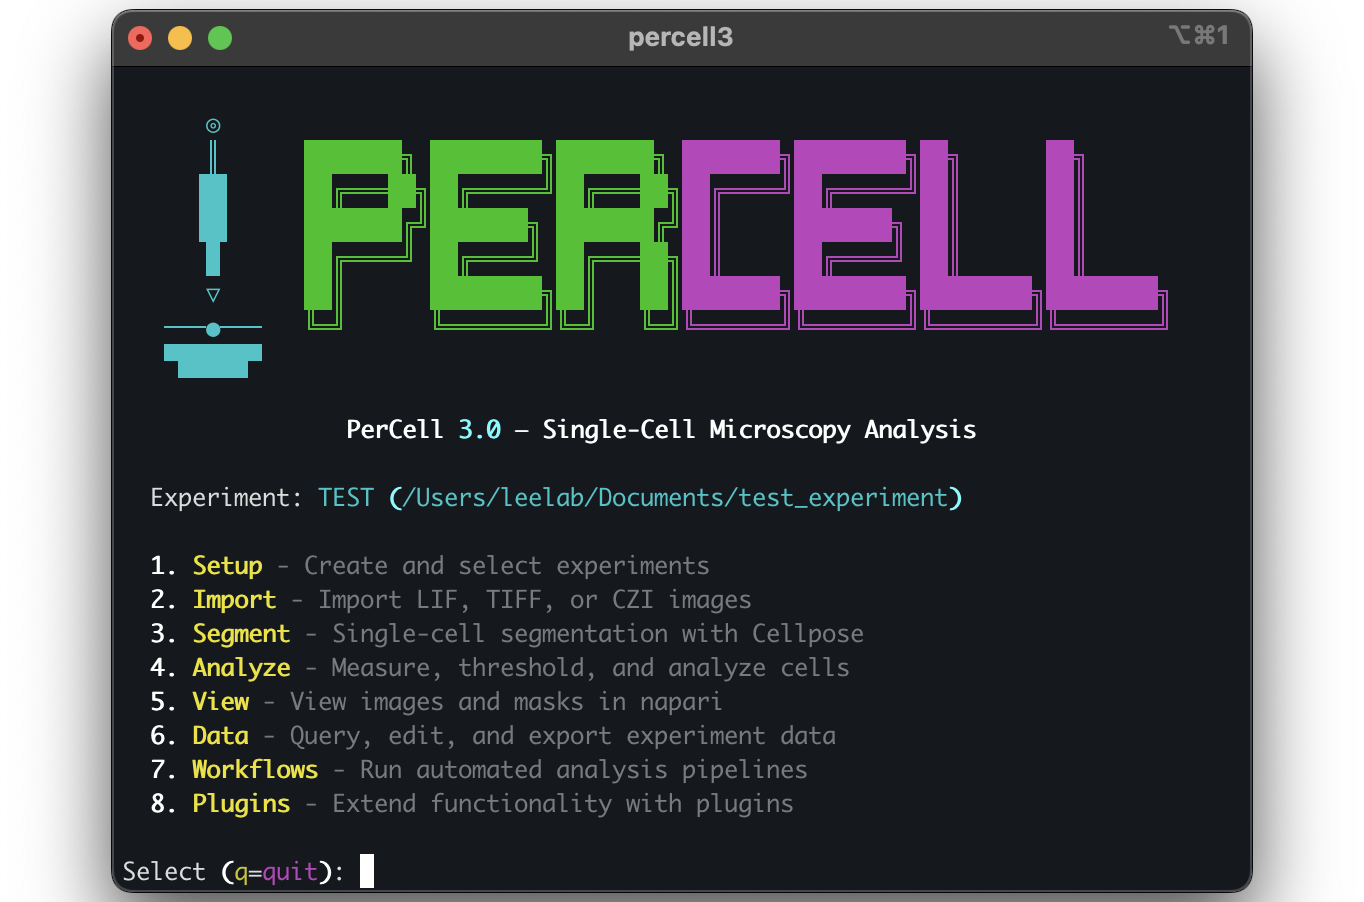
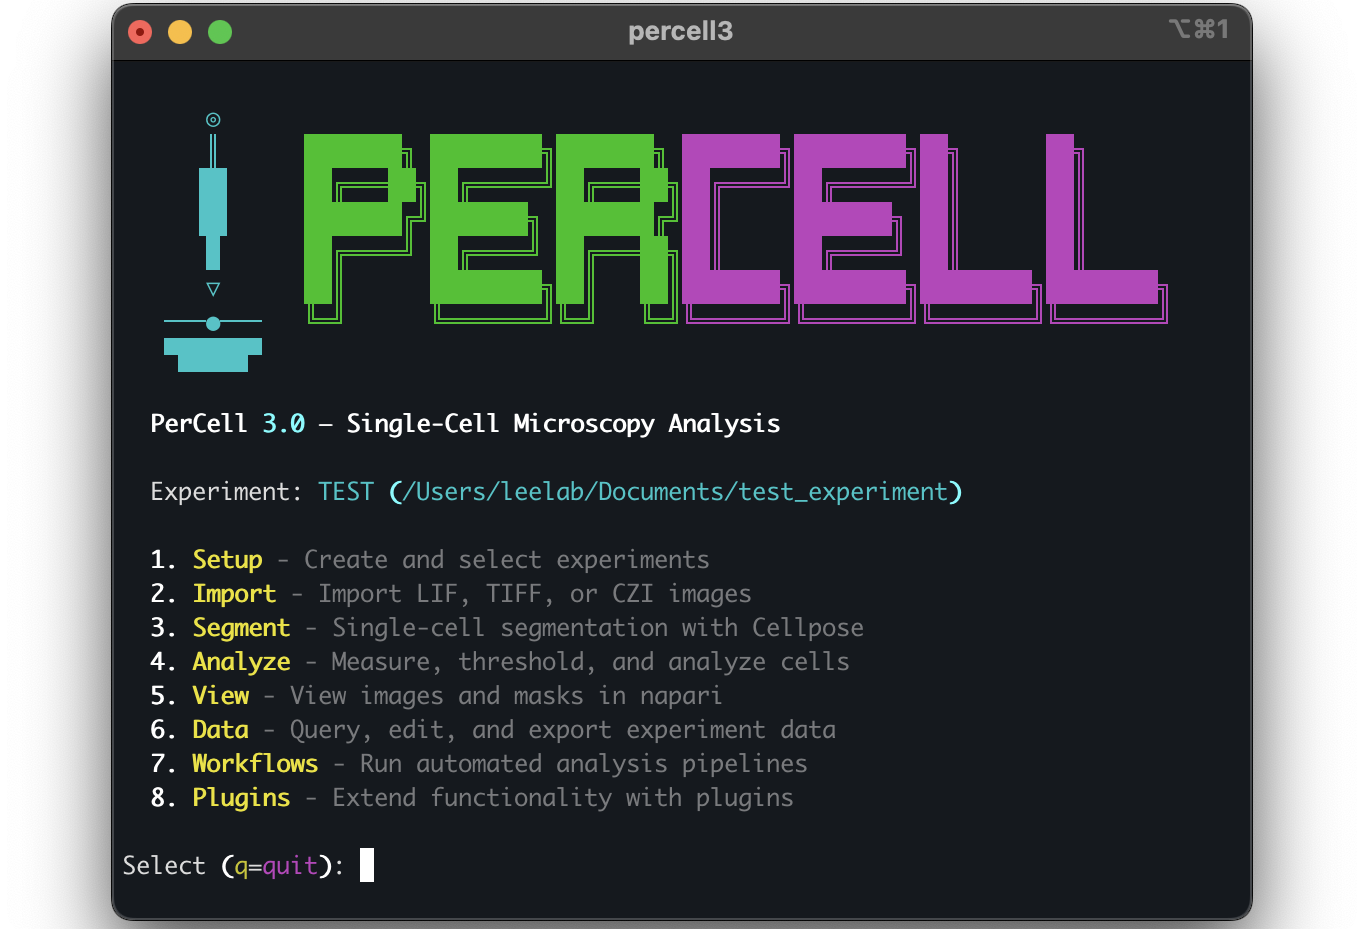
docs: update screenshot and add tech stack badges to README

diff --git a/README.md b/README.md
@@ -1,5 +1,9 @@
 # PerCell 3
 
+[![Python 3.10+](https://img.shields.io/badge/python-3.10+-blue.svg)](https://www.python.org/downloads/)
+[![Platform](https://img.shields.io/badge/platform-Windows%20%7C%20macOS%20%7C%20Linux-lightgrey)](https://github.com/marcusjoshm/percell3/)
+[![License: MIT](https://img.shields.io/github/license/marcusjoshm/percell3)](https://github.com/marcusjoshm/percell3/blob/main/LICENSE)
+
 <img src="docs/art/percell3_menu.png" width="900" title="PerCell 3 Interactive Menu" alt="PerCell 3 Interactive Menu">
 
 Single-cell microscopy analysis platform built on OME-Zarr and SQLite.
@@ -324,16 +328,14 @@ pytest -m "not slow"                 # Skip slow tests (Cellpose model downloads
 
 ## Technology Stack
 
-- Python 3.10+
-- zarr + ome-zarr (OME-NGFF 0.4)
-- SQLite (stdlib sqlite3, WAL mode)
-- dask.array for lazy/chunked image access
-- cellpose (3.x/4.x) for segmentation
-- scikit-image + scipy for image processing
-- scikit-learn for GMM cell grouping
-- click + rich for CLI
-- pandas for data export
-- napari for visualization (optional)
+- **Python 3.10+** with scientific libraries (NumPy, SciPy, pandas)
+- **Image Storage**: zarr + ome-zarr (OME-NGFF 0.4), dask.array for lazy/chunked access
+- **Database**: SQLite (stdlib sqlite3, WAL mode)
+- **Segmentation**: Cellpose (3.x/4.x)
+- **Image Processing**: scikit-image, scipy, scikit-learn (GMM cell grouping)
+- **Visualization**: napari (optional) with custom dock widgets
+- **CLI**: click + rich for interactive terminal menus
+- **Architecture**: Hexagonal design with plugin system and dependency injection
 
 ## License
 
